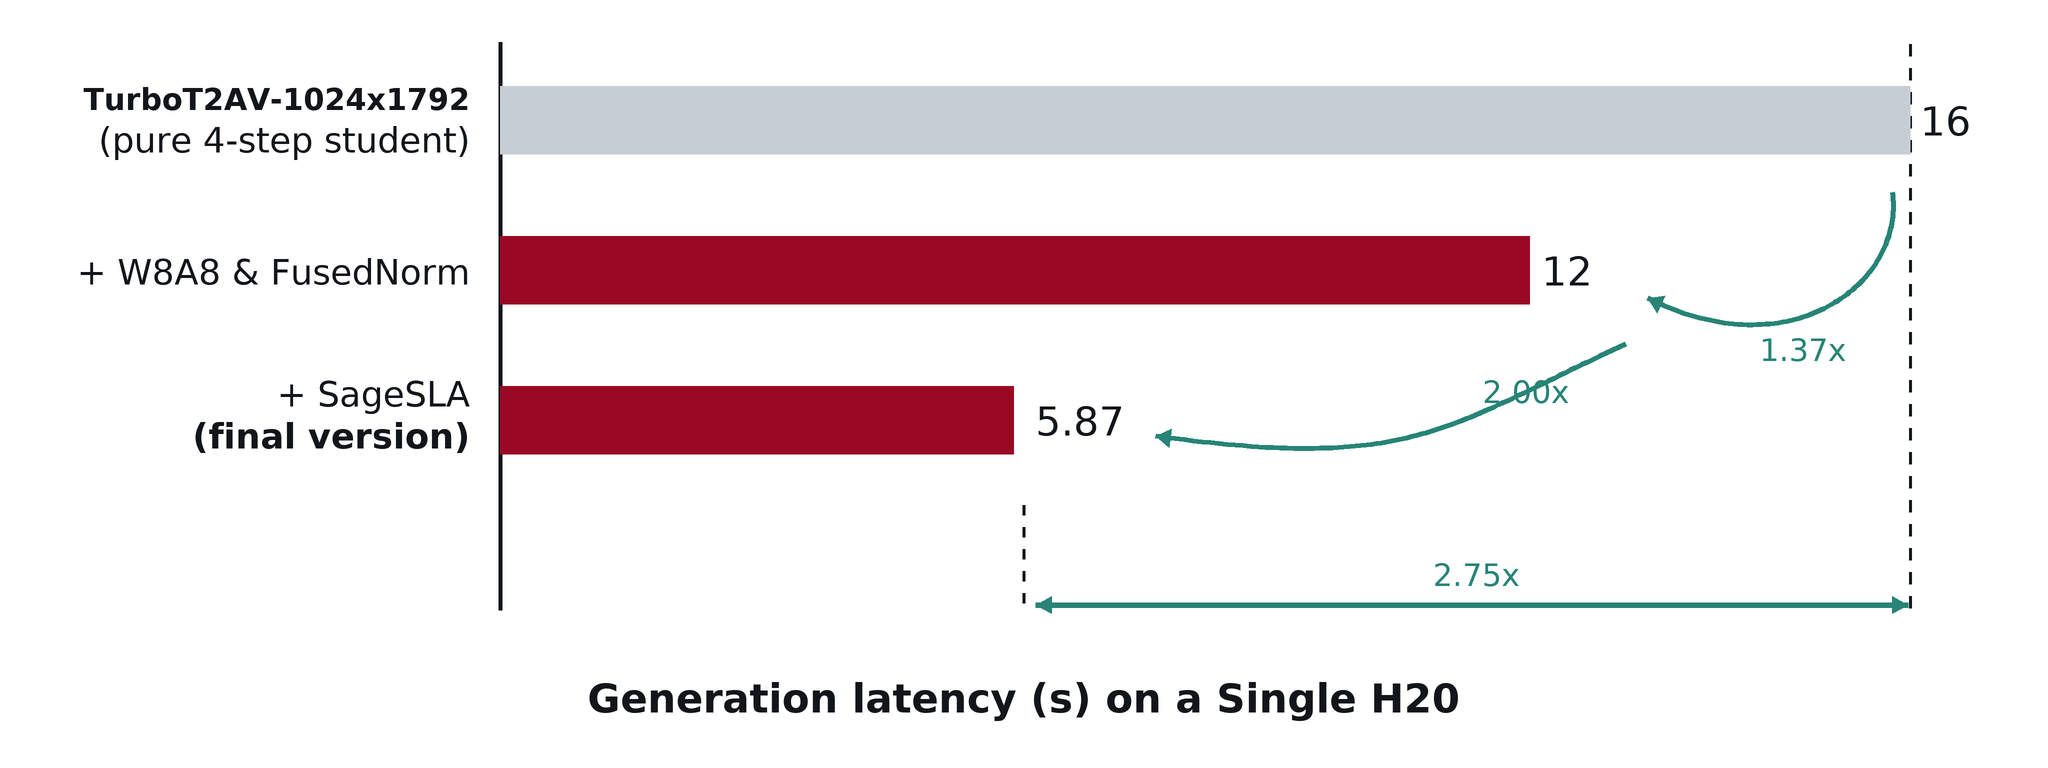
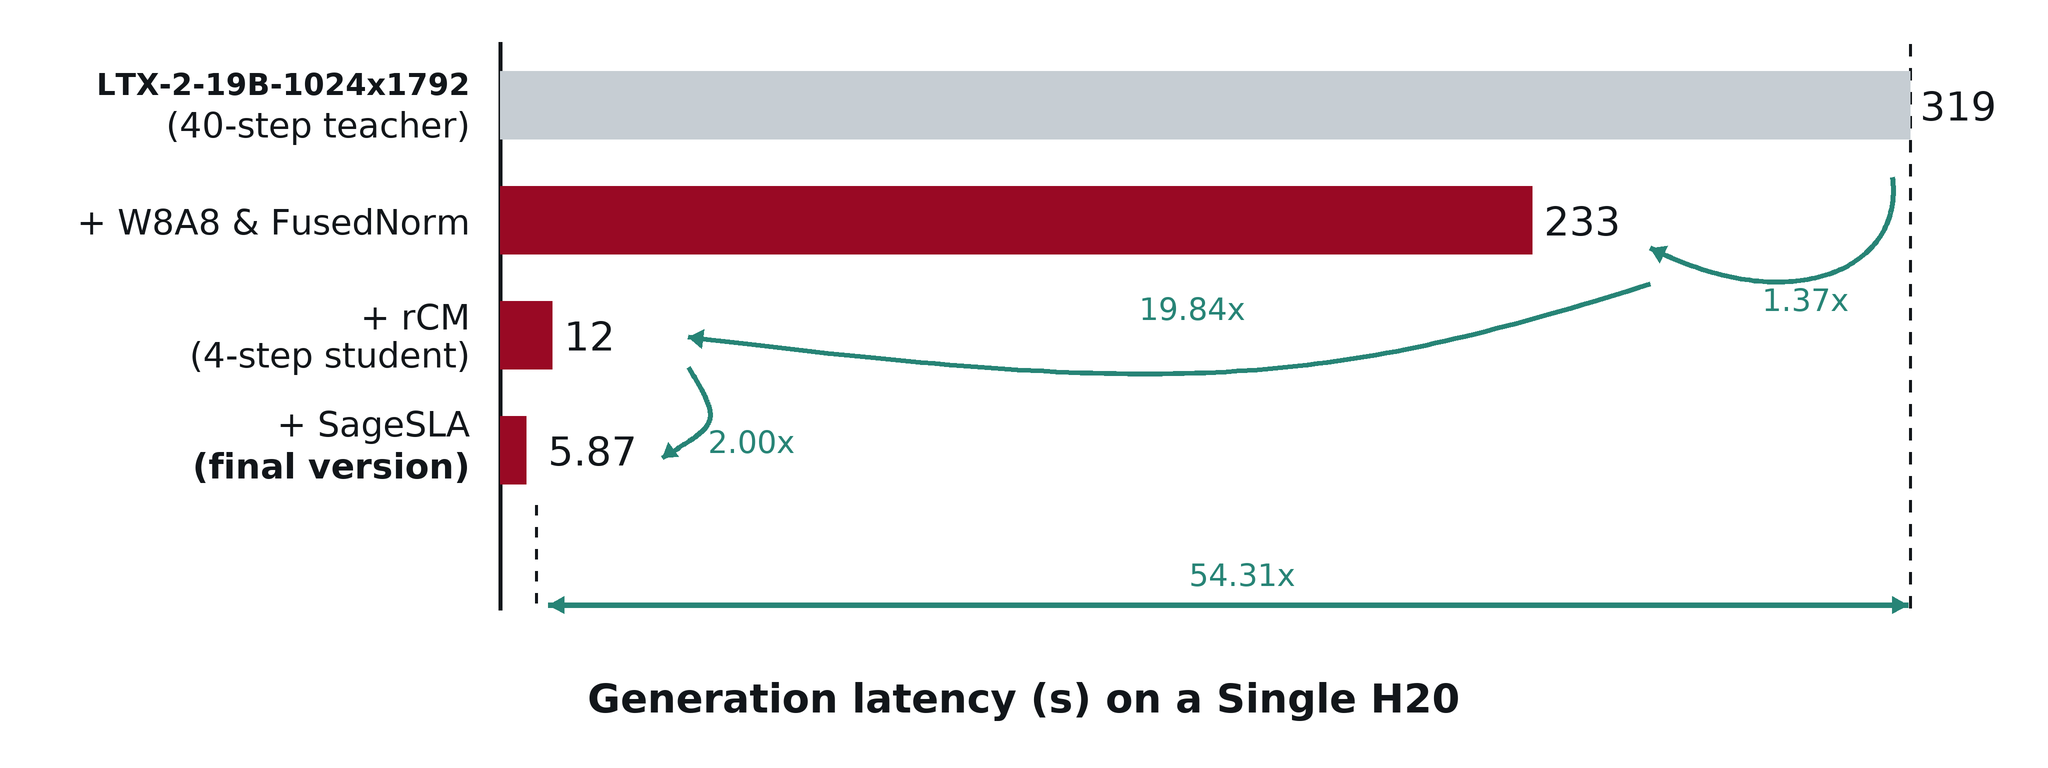
Show cumulative teacher-to-SageSLA acceleration

diff --git a/scripts/plot_td_style_acceleration.py b/scripts/plot_td_style_acceleration.py
@@ -251,16 +251,17 @@ def draw_latency_figure(
 
 def main() -> None:
     labels = [
-        "TurboT2AV-1024x1792\n(pure 4-step student)",
+        "LTX-2-19B-1024x1792\n(40-step teacher)",
         "+ W8A8 & FusedNorm",
+        "+ rCM\n(4-step student)",
         "+ SageSLA\n(final version)",
     ]
     draw_latency_figure(
         title_resolution="1024x1792",
         labels=labels,
-        latencies=[16.1096, 11.7628, 5.8689],
-        speedups=["1.37x", "2.00x"],
-        total_speedup="2.75x",
+        latencies=[318.7405, 233.3424, 11.7628, 5.8689],
+        speedups=["1.37x", "19.84x", "2.00x"],
+        total_speedup="54.31x",
         output=ASSET_DIR / "turbot2av_td_style_1024x1792.png",
     )
 

diff --git a/README.md b/README.md
@@ -12,23 +12,27 @@ Fast text-to-audio-video generation distilled from LTX-2 19B.
 
 Measured on a single NVIDIA H20 at `1024x1792`:
 
-| Stage | Latency | Speedup vs previous | Speedup vs pure student | What changes |
+| Stage | Latency | Speedup vs previous | Speedup vs teacher | What changes |
 | --- | ---: | ---: | ---: | --- |
-| Pure 4-step student | 16.1096s | - | 1.00x | Distilled TurboT2AV student with dense attention. |
-| + W8A8 & FastNorm | 11.7628s | 1.37x | 1.37x | TileLang W8A8 Linear and FastNorm with dense attention. |
-| + SageSLA final | 5.8689s | 2.00x | 2.75x | SageSLA `topk=0.3` self-attention plus W8A8/FastNorm. |
+| LTX-2-19B teacher (40 steps) | 318.7405s | - | 1.00x | Full teacher baseline with dense attention. |
+| + W8A8 & FastNorm | 233.3424s | 1.37x | 1.37x | Add TileLang W8A8 Linear and FastNorm to the teacher. |
+| + rCM (4-step student) | 11.7628s | 19.84x | 27.10x | Switch to the distilled student while retaining W8A8/FastNorm. |
+| + SageSLA final | 5.8689s | 2.00x | 54.31x | Add SageSLA `topk=0.3` self-attention to the accelerated student. |
 
 At this resolution the video latent is `[1,16,128,32,56]`, corresponding to
-28,672 video self-attention tokens. The SageSLA stage is measured against the
-same W8A8/FastNorm student with dense attention.
+28,672 video self-attention tokens. The stages are cumulative: rCM keeps the
+W8A8/FastNorm stack, and the final stage adds SageSLA. For reference, the pure
+4-step student without these inference optimizations takes 16.1096s/video, so
+the final path is also 2.75x faster than the pure student.
 
 ## Overview
 
 TurboT2AV generates synchronized audio-video from text prompts in 4 steps.
 The demo compares the 40-step teacher with the 4-step student.
 This repository provides single-GPU inference for the distilled checkpoint.
-On an NVIDIA H20 at 1024x1792, generator-only latency is 16.11 seconds/video
-for the pure 4-step student and 5.87 seconds/video for the accelerated student.
+On an NVIDIA H20 at 1024x1792, generator-only latency falls from 318.74
+seconds/video for the 40-step teacher to 5.87 seconds/video for the accelerated
+4-step student.
 
 Main contributions:
 
@@ -40,8 +44,9 @@ Main contributions:
   audio-video generation model at the 14B-video + 5B-audio scale.
 - Integrates a TurboDiffusion-style inference stack with SageSLA, FastNorm, and
   TileLang W8A8 Linear. On a single NVIDIA H20 at 1024x1792, the final
-  accelerated student is 2.75x faster than the pure 4-step student and the
-  SageSLA stage is 2.00x faster than the W8A8/FastNorm dense-attention stage.
+  accelerated student is 54.31x faster than the 40-step teacher and 2.75x
+  faster than the pure 4-step student. SageSLA contributes a further 2.00x over
+  the W8A8/FastNorm student stage.
 
 <table>
   <thead>
@@ -288,16 +293,22 @@ end-to-end runtime. TurboDiffusion W8A8 is not enabled by default. The compiled
 torchao backend is also not default because it adds a dependency and a
 first-sample compile cost.
 
-H20 generator-only measurements use `--skip_decode`, one common warmup sample,
-121 frames, and the same student checkpoint. The current recommended stack is
-SageSLA self-attention with `topk=0.3`, FastNorm, text-context trimming, fused
-Ada/RoPE helpers, and TileLang post-scale W8A8 Linear.
+H20 generator-only measurements use `--skip_decode` and 121 frames. The costly
+teacher rows use one measured generation; the student rows report medians from
+repeated generations. The stages are cumulative, and the current recommended
+stack is SageSLA self-attention with `topk=0.3`, FastNorm, text-context
+trimming, fused Ada/RoPE helpers, and TileLang post-scale W8A8 Linear.
 
-| Resolution | Path | Median generator time | Speedup vs previous student stage | Notes |
-| --- | --- | ---: | ---: | --- |
-| `1024x1792` | Pure 4-step student | 16.1096s/video | 1.00x | Dense-attention student baseline. |
-| `1024x1792` | 4-step student + W8A8/FastNorm | 11.7628s/video | 1.37x | TileLang W8A8 Linear and FastNorm with dense attention. |
-| `1024x1792` | SageSLA `topk=0.3` + FastNorm + TileLang W8A8 | 5.8689s/video | 2.00x | 96 self-attention modules and 1370 Linear modules replaced. |
+| Stage | Generator time | Speedup vs previous | Speedup vs teacher | Notes |
+| --- | ---: | ---: | ---: | --- |
+| LTX-2-19B teacher (40 steps) | 318.7405s/video | - | 1.00x | Dense teacher baseline. |
+| + W8A8/FastNorm | 233.3424s/video | 1.37x | 1.37x | TileLang W8A8 Linear and FastNorm on the teacher. |
+| + rCM (4-step student) | 11.7628s/video | 19.84x | 27.10x | Distilled student retaining W8A8/FastNorm and dense attention. |
+| + SageSLA `topk=0.3` | 5.8689s/video | 2.00x | 54.31x | 96 self-attention modules and 1370 Linear modules replaced. |
+
+The non-cumulative pure 4-step student baseline is 16.1096s/video. It is kept
+out of the staged table because the TD-style `+ rCM` row retains the preceding
+W8A8/FastNorm optimizations.
 
 SageSLA affects quality because it sparsifies self-attention. Earlier decoded
 visual checks showed `topk=0.3` is a useful high-resolution speed/quality